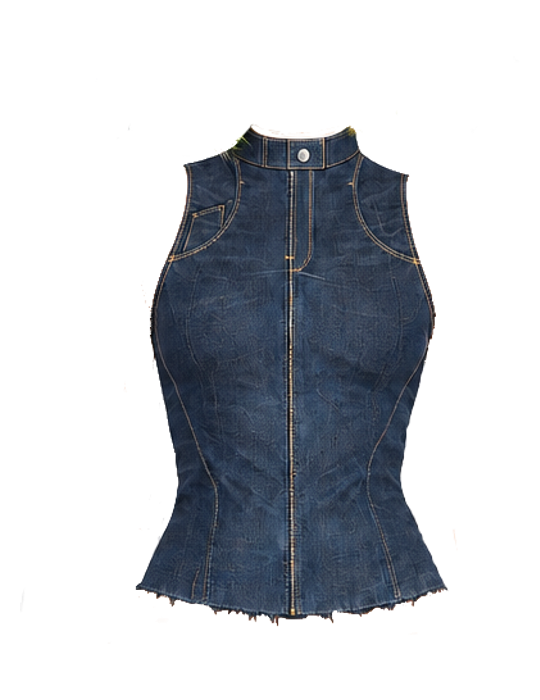
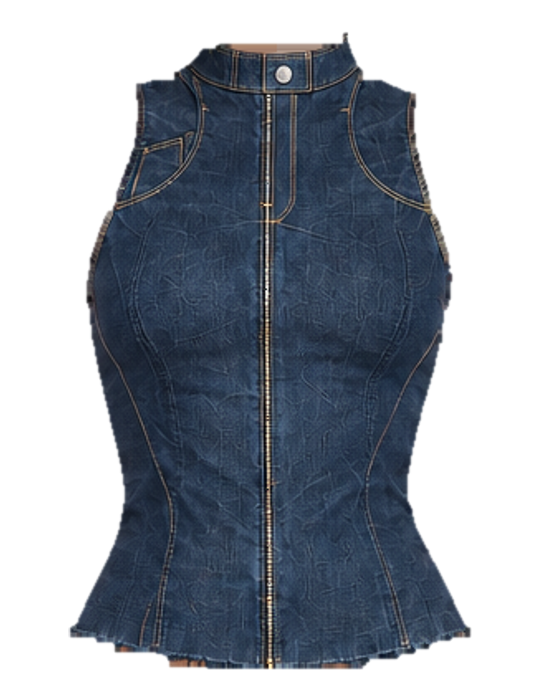
fix(studio): recut grommet top from approved source

diff --git a/tests/production-v2.spec.ts b/tests/production-v2.spec.ts
@@ -26,15 +26,22 @@ test('production assets have soft alpha, clean denim edges, and unchanged pose l
   }
   expect(fringe).toBe(0);
   const yellow = await layer('top-modal-grommet');
-  let stitches = 0;
-  for (let p = 0; p < yellow.length; p += 4) if (yellow[p + 3] > 128 && yellow[p] > yellow[p + 1] * 1.3 && yellow[p] > yellow[p + 2] * 1.6) stitches++;
-  expect(stitches).toBeGreaterThan(200);
+  const yellowSource = await sharp('assets/studio/manual-extraction/production-v2-white/item/02-Modal-Grommet-Top-White-Background.png')
+    .resize(1024, 1536, { fit: 'fill' }).removeAlpha().raw().toBuffer();
+  let opaque = 0, sourceExact = 0;
+  for (let p = 0; p < 1024 * 1536; p++) {
+    if (yellow[p * 4 + 3] !== 255) continue;
+    opaque++;
+    if (yellow[p * 4] === yellowSource[p * 3] && yellow[p * 4 + 1] === yellowSource[p * 3 + 1] && yellow[p * 4 + 2] === yellowSource[p * 3 + 2]) sourceExact++;
+  }
+  expect(sourceExact / opaque, 'opaque shirt pixels must remain faithful to the approved source').toBeGreaterThan(0.985);
   const denim = await layer('top-fitted-denim');
   for (const y of [300, 350, 400, 500, 600]) {
     expect(denim[(y * 1024 + 520) * 4 + 3], `center zipper at y=${y}`).toBeGreaterThan(240);
   }
-  for (const [x, y] of [[465, 543], [608, 470], [440, 622]]) {
+  for (const [x, y, radius] of [[465, 543, 14], [608, 470, 6], [440, 622, 6]]) {
     expect(yellow[(y * 1024 + x) * 4 + 3], `transparent grommet hole at ${x},${y}`).toBe(0);
+    expect(yellow[(y * 1024 + x + radius + 3) * 4 + 3], `metal rim retained at ${x},${y}`).toBeGreaterThan(240);
   }
 
   const arms = await layer('model-arms');

diff --git a/src/lib/asset-preloader.ts b/src/lib/asset-preloader.ts
@@ -34,7 +34,7 @@ export const CORE_PRELOAD_AUDIO: string[] = [
 
 let isGlobalPreloaded = false;
 let activePreload: Promise<void> | null = null;
-const PRELOAD_STORAGE_KEY = "tung_tung_preloaded_production_v2_detail_fix";
+const PRELOAD_STORAGE_KEY = "tung_tung_preloaded_production_v2_v9_source_recut";
 
 export function isAssetsPreloaded(): boolean {
   if (isGlobalPreloaded) return true;

diff --git a/src/lib/studio.ts b/src/lib/studio.ts
@@ -1,5 +1,5 @@
 export const STAGE = { width: 1024, height: 1536 } as const;
-export const STUDIO_ASSET_VERSION = "production-v2-20260909-v8";
+export const STUDIO_ASSET_VERSION = "production-v2-20260909-v9-source-recut";
 
 export const categories = [
   { id: "tops", label: "Tops" },
